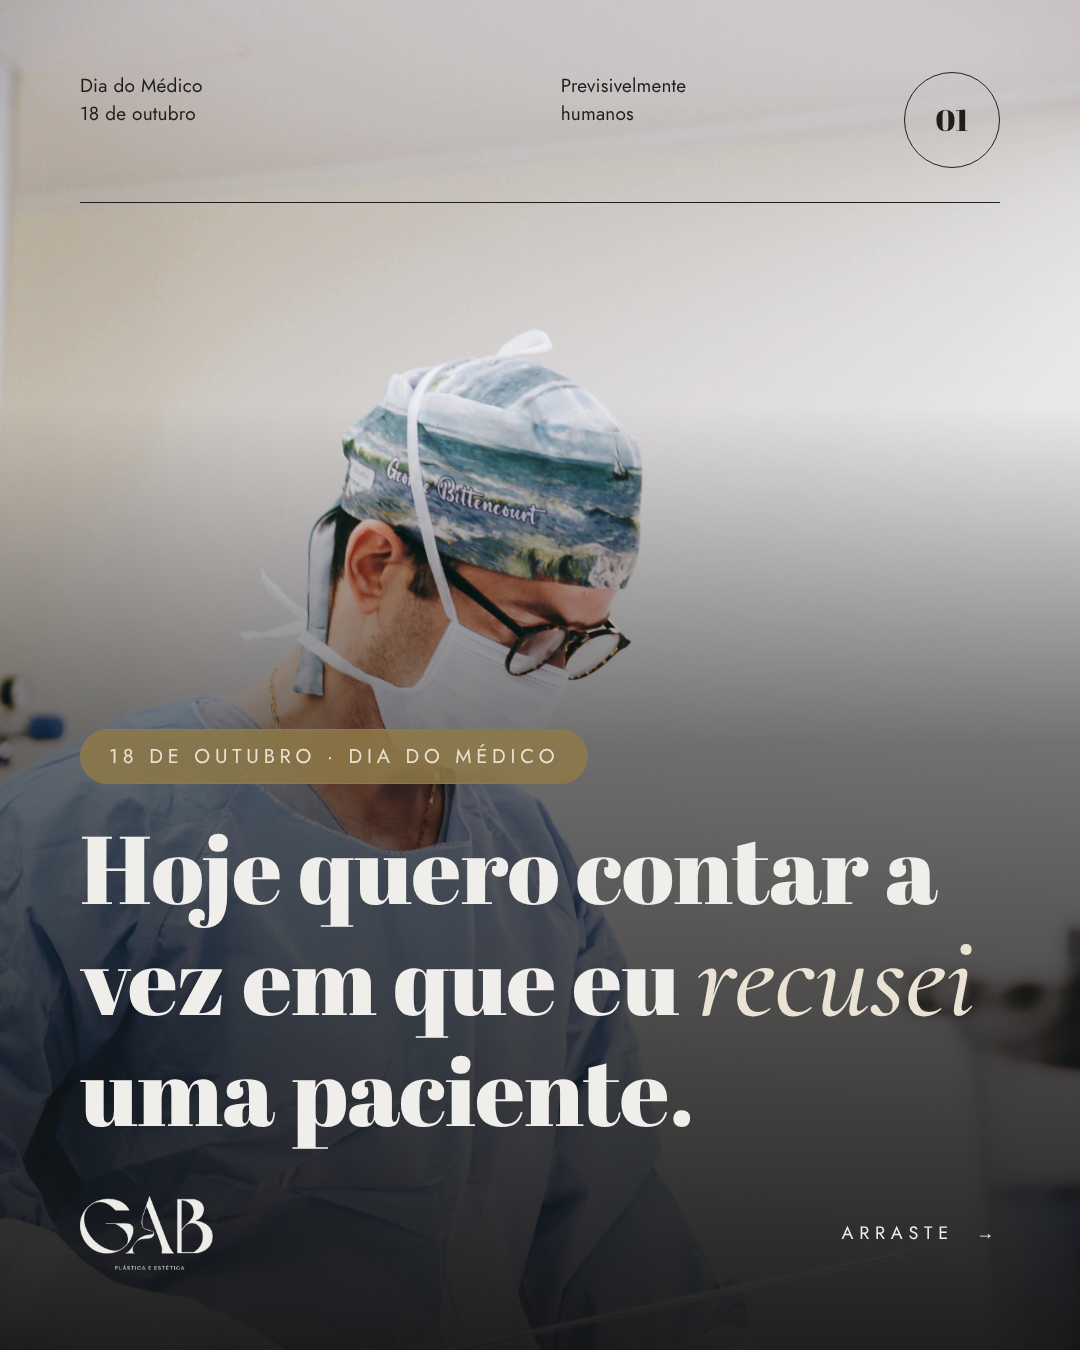
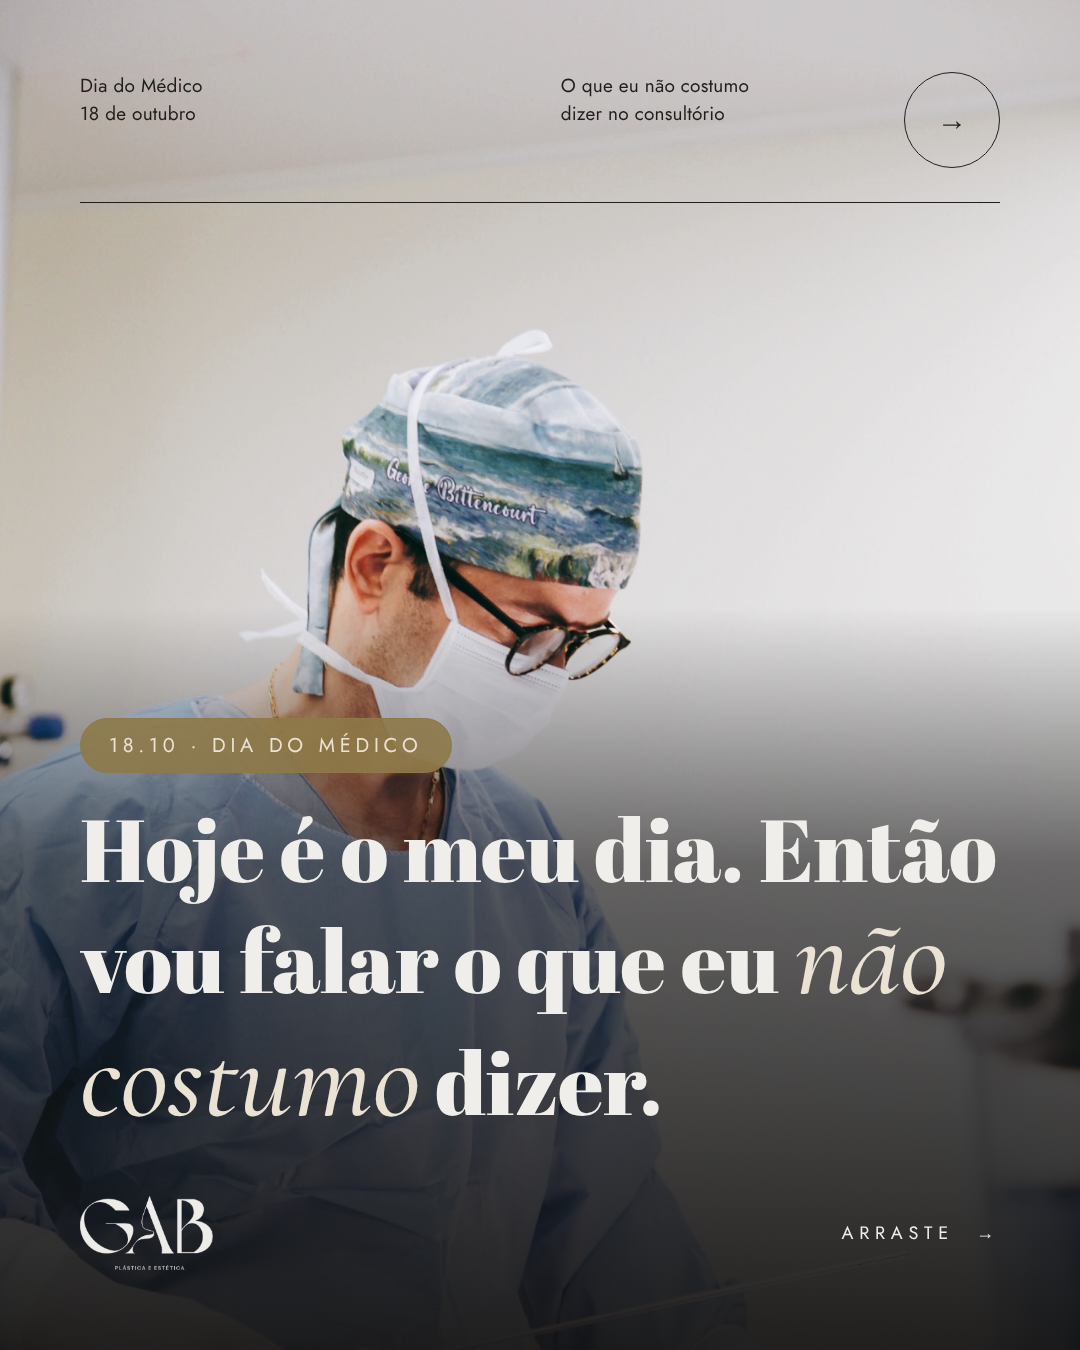
Rework Dia do Médico carousel: new concept, no book references
Claude-Session: https://claude.ai/code/session_01GVhh6PVXGt4EJQoc58yRio

Changed region(s): [[0.0, 0.3422, 1.0, 0.8711], [0.5194, 0.0622, 0.6722, 0.0933], [0.8556, 0.0622, 0.8861, 0.0933]]

diff --git a/carrossel-dia-do-medico/carrossel.html b/carrossel-dia-do-medico/carrossel.html
@@ -38,7 +38,7 @@
   /* 1 — capa */
   .s1{padding:0;color:var(--off)}
   .s1 .photo{position:absolute;inset:0;background:url(assets/foto_cover.jpg) center 30%/cover}
-  .s1 .shade{position:absolute;inset:0;background:linear-gradient(180deg,rgba(18,17,16,0) 30%,rgba(18,17,16,.55) 55%,rgba(18,17,16,.93) 100%)}
+  .s1 .shade{position:absolute;inset:0;background:linear-gradient(180deg,rgba(18,17,16,0) 45%,rgba(18,17,16,.6) 64%,rgba(18,17,16,.93) 100%)}
   .s1 .hd{position:relative;margin:72px 80px 0;color:var(--ink);border-color:var(--ink)}
   .s1 .content{position:absolute;left:80px;right:80px;bottom:80px}
   .s1 h1{font-size:104px}
@@ -61,6 +61,9 @@
   .mark{font-family:'Abril Fatface';font-size:180px;line-height:.6;color:var(--gold);height:80px}
 
   .pill{display:inline-block;border:1.5px solid currentColor;border-radius:100px;padding:12px 28px;font-size:20px;letter-spacing:.24em;text-transform:uppercase;font-weight:400}
+  .huge{font-family:'Abril Fatface';font-size:300px;line-height:.78}
+  .truth{font-size:100px}
+  .lead{font-size:36px;line-height:1.42;max-width:880px}
 </style>
 </head>
 <body>
@@ -68,10 +71,10 @@
 <!-- 01 · CAPA -->
 <section class="slide s1" id="s1">
   <div class="photo"></div><div class="shade"></div>
-  <div class="hd"><div>Dia do Médico<br>18 de outubro</div><div>Previsivelmente<br>humanos</div><div class="num">01</div></div>
+  <div class="hd"><div>Dia do Médico<br>18 de outubro</div><div>O que eu não costumo<br>dizer no consultório</div><div class="num" style="font-family:Jost;font-weight:300">→</div></div>
   <div class="content">
-    <span class="pill" style="color:var(--beige);background:rgba(142,121,72,.85);border-color:var(--gold)">18 de outubro · Dia do Médico</span>
-    <h1 class="fat" style="margin-top:34px;font-size:96px">Hoje quero contar a vez em que eu <em>recusei</em> uma paciente.</h1>
+    <span class="pill" style="color:var(--beige);background:rgba(142,121,72,.9);border-color:var(--gold)">18.10 · Dia do Médico</span>
+    <h1 class="fat" style="margin-top:30px;font-size:88px">Hoje é o meu dia. Então vou falar o que eu <em>não costumo</em> dizer.</h1>
     <div class="swipe">
       <img class="logo" src="assets/logo_light.png" alt="GAB Plástica e Estética">
       <span class="caps" style="font-size:18px">Arraste &nbsp;→</span>
@@ -79,55 +82,48 @@
   </div>
 </section>
 
-<!-- 02 · A HISTÓRIA -->
-<section class="slide s4 beige" id="s2">
+<!-- 02 · PRESSA -->
+<section class="slide gold" id="s2">
+  <div class="hd"><div>Dia do Médico<br>18 de outubro</div><div>O que eu não costumo<br>dizer no consultório</div><div class="num" style="font-family:Jost;font-weight:300">→</div></div>
+  <div class="huge" style="margin-top:70px">01</div>
+  <h2 class="fat truth" style="margin-top:40px">A pressa é o maior risco que você traz para a cirurgia.</h2>
+  <div class="dash"></div>
+  <p class="lead">O “quero pra ontem” sempre fala mais alto que o “quero bem”. <b style="font-weight:500">Eu fico do lado do “bem”.</b></p>
+  <div class="foot"><img class="logo" src="assets/logo_dark.png" alt="GAB"><span class="caps" style="font-size:18px">Continua &nbsp;→</span></div>
+</section>
+
+<!-- 03 · O NÃO -->
+<section class="slide s4 beige" id="s3">
   <div class="left"></div>
   <div class="right">
-    <div class="hd" style="grid-template-columns:1fr 96px"><div>Uma história real<br>contada com autorização*</div><div class="num">02</div></div>
-    <div style="margin-top:64px">
-      <p class="body" style="font-size:31px">Numa live, uma paciente me perguntou se eu a operaria <b style="font-weight:500">seis meses depois de uma cesárea.</b></p>
-      <p class="fat" style="font-size:124px;margin:34px 0 30px">Eu disse<br>não.</p>
-      <p class="body" style="font-size:31px">Não por técnica. Porque nesse período o bebê precisa da mãe.</p>
-      <p class="body" style="font-size:31px;margin-top:24px">Semanas depois, ela voltou com argumentos prontos para me convencer. E escolheu esperar.</p>
-    </div>
-    <div class="foot" style="font-size:16px;opacity:.7"><span>*Depoimento compartilhado com consentimento da paciente.</span></div>
+    <div class="hd" style="grid-template-columns:1fr 96px"><div>Dia do Médico<br>18 de outubro</div><div class="num" style="font-family:Jost;font-weight:300">→</div></div>
+    <div class="huge" style="margin-top:50px;font-size:220px;color:var(--gold)">02</div>
+    <h2 class="fat" style="font-size:84px;margin-top:30px">Eu já recusei paciente. E faria de novo.</h2>
+    <p class="body" style="font-size:30px;margin-top:34px">Ela queria operar seis meses depois de uma cesárea. Eu disse não: o bebê ainda precisava da mãe.</p>
+    <p class="body" style="font-size:30px;margin-top:22px">Ela esperou. Depois da cirurgia, me escreveu:</p>
+    <p class="quote" style="font-size:52px;margin-top:20px;color:var(--gold)">“Sou uma outra mulher.”</p>
+    <div class="foot" style="font-size:15px;opacity:.65"><span>Relato compartilhado com autorização da paciente.</span></div>
   </div>
 </section>
 
-<!-- 03 · O DESFECHO -->
-<section class="slide dark" id="s3">
-  <div class="hd"><div>Dia do Médico<br>18 de outubro</div><div>Previsivelmente<br>humanos</div><div class="num">03</div></div>
-  <div style="margin-top:110px">
-    <div class="caps" style="color:var(--gold-soft)">Quando chegou a hora certa</div>
-    <div class="mark" style="margin-top:60px">“</div>
-    <p class="quote" style="font-size:86px;color:var(--beige)">Sou uma outra mulher.<br>Nada de dor.<br>Só alegria.</p>
-    <div class="dash" style="background:var(--gold)"></div>
-    <p class="body" style="color:var(--stone);font-size:28px">— mensagem da mesma paciente, após a cirurgia</p>
-  </div>
-  <div class="foot"><img class="logo" src="assets/logo_light.png" alt="GAB"><span class="caps" style="font-size:18px;color:var(--stone)">Por que isso importa &nbsp;→</span></div>
-</section>
-
-<!-- 04 · A CIÊNCIA -->
-<section class="slide gold" id="s4">
-  <div class="hd"><div>Dia do Médico<br>18 de outubro</div><div>Previsivelmente<br>humanos</div><div class="num">04</div></div>
-  <div style="margin-top:64px">
-    <div class="caps">Economia comportamental</div>
-    <h2 class="fat" style="font-size:118px;margin-top:22px">Sinal<br>custoso.</h2>
-    <div class="dash" style="margin:36px 0"></div>
-    <p class="body" style="font-size:31px;max-width:880px">Dan Ariely mostrou que somos <span class="it" style="font-size:38px">previsivelmente irracionais</span>: decidimos pela pressa, pelo primeiro preço, pelo resultado de outra pessoa no feed.</p>
-    <p class="body" style="font-size:31px;max-width:880px;margin-top:26px">Por isso confiamos em quem prova que não age só por interesse. <b style="font-weight:500">Prometer é de graça. Recusar uma cirurgia tem preço</b> — e é exatamente isso que torna o “não” crível.</p>
-  </div>
-  <div class="foot" style="border-top:1.5px solid var(--ink);padding-top:28px"><span class="it" style="font-size:40px;letter-spacing:0">Às vezes, o maior cuidado é o tempo certo.</span></div>
+<!-- 04 · O FEED -->
+<section class="slide dark" id="s4">
+  <div class="hd"><div>Dia do Médico<br>18 de outubro</div><div>O que eu não costumo<br>dizer no consultório</div><div class="num" style="font-family:Jost;font-weight:300">→</div></div>
+  <div class="huge" style="margin-top:70px;color:var(--gold)">03</div>
+  <h2 class="fat truth" style="margin-top:40px;color:var(--off)">A foto do feed não é a sua meta.</h2>
+  <div class="dash" style="background:var(--gold)"></div>
+  <p class="lead" style="color:var(--stone)">Cada corpo tem a sua própria história. <span class="it" style="font-size:46px;color:var(--beige)">É com a sua que eu trabalho</span> — não com a de outra pessoa.</p>
+  <div class="foot"><img class="logo" src="assets/logo_light.png" alt="GAB"><span class="caps"  style="font-size:18px;color:var(--stone)">Continua &nbsp;→</span></div>
 </section>
 
 <!-- 05 · FECHAMENTO -->
 <section class="slide" id="s5" style="padding:0">
-  <div style="position:absolute;inset:0 0 auto 0;height:640px;background:url(assets/foto_olhar.jpg) center 34%/cover"></div>
-  <div style="position:absolute;inset:640px 0 0 0;padding:64px 80px 72px;display:flex;flex-direction:column">
-    <h2 class="fat" style="font-size:72px">Feliz Dia do Médico.</h2>
-    <p class="it" style="font-size:48px;line-height:1.2;margin-top:22px;color:var(--gold)">A todos que têm a coragem de dizer “ainda não”.</p>
-    <p class="body" style="font-size:26px;margin-top:30px;max-width:860px">Conhece alguém pensando em operar? Envie este post — a melhor decisão começa pela pergunta certa.</p>
-    <div class="foot" style="border-top:1.5px solid var(--ink);padding-top:28px">
+  <div style="position:absolute;inset:0 0 auto 0;height:620px;background:url(assets/foto_olhar.jpg) center 34%/cover"></div>
+  <div style="position:absolute;inset:620px 0 0 0;padding:60px 80px 72px;display:flex;flex-direction:column">
+    <p class="caps" style="color:var(--gold);font-size:19px">Feliz Dia do Médico</p>
+    <h2 class="fat" style="font-size:76px;margin-top:20px">Ser médico é cuidar até do que você <span class="it" style="font-size:84px;color:var(--gold)">ainda não perguntou.</span></h2>
+    <p class="body" style="font-size:26px;margin-top:26px">Salve para lembrar antes da sua consulta — e envie para quem está pensando em operar.</p>
+    <div class="foot" style="border-top:1.5px solid var(--ink);padding-top:26px">
       <img class="logo" src="assets/logo_gold.png" alt="GAB Plástica e Estética">
       <span style="text-align:right;line-height:1.5">Dr. George Augusto Bittencourt<br>Cirurgião Plástico · CRM-SP 000000 · RQE 0000</span>
     </div>
